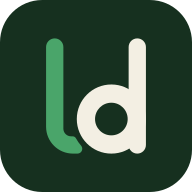
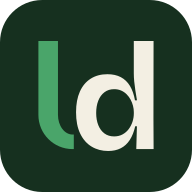
Draw the ld mark from the wordmark's letters and set it in a tile
The l and d now come from the wordmark itself: the l's foot turns at an even
thickness and ends in one straight cut, and the d's bowl is 10% lower so it
doesn't outweigh the l on its own. In the horizontal logo the mark sits in a
dark tile beside the wordmark; the logo is drawn taller (28 px on the site,
h-8 in the app) so the letters keep their size.

diff --git a/src/components/brand/logo.tsx b/src/components/brand/logo.tsx
@@ -1,16 +1,16 @@
 /**
- * The Leafdesk logo: the ld mark and the wordmark, from brand/leafdesk-logo.svg. Its colors come
- * from the --logo-* variables in globals.css, so it follows the light and dark theme.
+ * The Leafdesk logo: the ld mark in its tile and the wordmark, from brand/leafdesk-logo.svg. Its
+ * colors come from the --logo-* variables in globals.css, so it follows the light and dark theme.
  */
 export function Logo({ className }: { className?: string }) {
   return (
-    <svg xmlns="http://www.w3.org/2000/svg" viewBox="-40 -736 4880.2 776" role="img" aria-label="Leafdesk" className={className}>
-    <g transform="translate(-278.4 -928) scale(11.6)">
-      <path fill="var(--logo-leaf)" d="M24 24.5A4.5 4.5 0 0 1 33 24.5V67A4 4 0 0 0 37 71H37.8A2 2 0 0 1 39.56 72.04A21 21 0 0 0 42.22 75.85A2.5 2.5 0 0 1 40.34 80H38A14 14 0 0 1 24 66Z"/>
-      <rect fill="var(--logo-block)" x="67" y="20" width="9" height="60" rx="4.5"/>
-      <path fill="var(--logo-block)" fillRule="evenodd" d="M40 62A18 18 0 1 0 76 62A18 18 0 1 0 40 62ZM49.5 62A8.5 8.5 0 1 0 66.5 62A8.5 8.5 0 1 0 49.5 62Z"/>
+    <svg xmlns="http://www.w3.org/2000/svg" viewBox="0 -803.5 5097.9 911" role="img" aria-label="Leafdesk" className={className}>
+    <rect x="0" y="-803.5" width="911" height="911" rx="200.4" fill="var(--logo-tile)"/>
+    <g transform="translate(0 -803.5) scale(9.1)">
+      <path fill="var(--logo-leaf)" d="M20 21.36L30.19 21.36L30.19 59.85A7.6 10.22 0 0 0 37.8 70.08L38.44 70.08L38.44 77.65L37.8 77.65A17.8 17.8 0 0 1 20 59.85Z"/>
+      <path fill="var(--logo-mark)" d="M56.31 78.64Q51.54 78.64 47.76 76.38Q43.98 74.13 41.8 69.64Q39.61 65.14 39.61 58.44Q39.61 52.12 41.6 47.7Q43.58 43.28 47.26 40.97Q50.93 38.65 55.93 38.65Q60 38.65 62.91 40.18Q65.83 41.71 67.67 44.73Q69.5 47.76 70.31 52.26L71.34 52.26Q70.88 49.51 70.49 47.04Q70.1 44.56 69.9 42.37Q69.69 40.19 69.69 38.23L69.69 21.36L79.98 21.36L79.92 61.54L80 77.65L70.98 77.65L71.31 65.76L70.42 65.76Q69.46 70.03 67.59 72.9Q65.72 75.77 62.92 77.2Q60.12 78.64 56.31 78.64ZM59.43 71.05Q61.9 71.05 63.82 70.01Q65.74 68.97 67.04 67.23Q68.34 65.49 69.02 63.37Q69.7 61.25 69.7 59.11L69.7 58.38Q69.7 56.76 69.26 55.07Q68.83 53.38 68 51.85Q67.16 50.31 65.93 49.08Q64.7 47.86 63.08 47.15Q61.45 46.44 59.46 46.44Q56.5 46.44 54.4 48.04Q52.29 49.64 51.19 52.43Q50.09 55.22 50.09 58.85Q50.09 62.41 51.19 65.18Q52.29 67.94 54.39 69.5Q56.48 71.05 59.43 71.05Z"/>
     </g>
-    <g transform="translate(923.2 0)">
+    <g transform="translate(1220.9 0)">
     <g fill="var(--logo-text)" transform="scale(1 -1)">
       <path transform="translate(0 0)" d="M49.90412139892578 0.0V695.8099365234375H175.90626525878906V0.0H49.90412139892578Z"/>
       <path transform="translate(226 0)" d="M290.1429138183594 -13.571457862854004Q223.38063049316406 -13.571457862854004 174.76144409179688 6.095271587371826Q126.14227294921875 25.762001037597656 94.23749542236328 61.52396774291992Q62.33272171020508 97.28593444824219 46.7613410949707 145.85736083984375Q31.18996238708496 194.42877197265625 31.18996238708496 252.4762420654297Q31.18996238708496 310.90478515625 46.61852264404297 362.3096008300781Q62.04708480834961 413.71441650390625 93.02330017089844 452.7144775390625Q123.99951171875 491.71453857421875 170.9996337890625 513.857421875Q217.99974060058594 536.0003662109375 280.952392578125 536.0003662109375Q341.0480651855469 536.0003662109375 386.333984375 515.500244140625Q431.619873046875 495.00006103515625 460.78656005859375 456.73797607421875Q489.9532470703125 418.4758605957031 501.73883056640625 365.2376403808594Q513.5244140625 311.9994201660156 506.6671142578125 246.28515625L110.71514129638672 240.90419006347656V315.3335266113281L417.71295166015625 320.0002136230469L390.42718505859375 277.4284362792969Q394.99871826171875 327.6662902832031 383.26080322265625 362.4993896484375Q371.5229187011719 397.3324890136719 345.88037109375 415.5942687988281Q320.23779296875 433.8560485839844 281.23809814453125 433.8560485839844Q238.9051055908203 433.8560485839844 210.33401489257812 412.11810302734375Q181.762939453125 390.38018798828125 167.73936462402344 350.71380615234375Q153.71578979492188 311.04742431640625 153.71578979492188 257.095458984375Q153.71578979492188 169.8577117919922 189.16778564453125 126.54856872558594Q224.61976623535156 83.23941802978516 291.5714416503906 83.23941802978516Q322.57110595703125 83.23941802978516 343.4755859375 91.92977142333984Q364.3800964355469 100.62012481689453 377.3085021972656 115.33424377441406Q390.2369079589844 130.04837036132812 396.1653747558594 148.54823303222656Q402.0938415527344 167.048095703125 402.5699768066406 186.4290313720703L517.5718994140625 174.048095703125Q516.1911010742188 136.66734313964844 502.54840087890625 102.97682189941406Q488.9057312011719 69.28629302978516 461.358154296875 43.143280029296875Q433.8105773925781 17.000267028808594 391.4056091308594 1.714404582977295Q349.0006408691406 -13.571457862854004 290.1429138183594 -13.571457862854004Z"/>

diff --git a/site/index.html b/site/index.html
@@ -102,7 +102,7 @@
     border-bottom: 1px solid var(--border);
   }
   header.top .wrap { display: flex; align-items: center; gap: 24px; height: 60px; }
-  .logo img { height: 24px; width: auto; }
+  .logo img { height: 28px; width: auto; }
   nav.links { display: flex; gap: 20px; margin-left: auto; font-size: 15px; }
   nav.links a { text-decoration: none; color: var(--fg-muted); }
   nav.links a:hover { color: var(--fg); }
@@ -216,7 +216,7 @@
     <a class="logo" href="./" aria-label="Leafdesk home">
       <picture>
         <source media="(prefers-color-scheme: dark)" srcset="brand/leafdesk-logo-dark.svg">
-        <img src="brand/leafdesk-logo.svg" alt="Leafdesk" width="151" height="24">
+        <img src="brand/leafdesk-logo.svg" alt="Leafdesk" width="157" height="28">
       </picture>
     </a>
     <nav class="links" aria-label="Main">

diff --git a/src/app/globals.css b/src/app/globals.css
@@ -34,8 +34,9 @@
   --danger: #d03b3b;
   --ring: rgba(47, 125, 79, 0.35);
   /* The logo's colors (components/brand/logo.tsx). */
+  --logo-tile: #16301f;
   --logo-leaf: #4aa56a;
-  --logo-block: #16301f;
+  --logo-mark: #f3efe3;
   --logo-text: #13201a;
   --scrollbar: rgba(31, 32, 35, 0.16);
   --scrollbar-hover: rgba(31, 32, 35, 0.32);
@@ -63,8 +64,9 @@
     --accent-fg: #0d1117;
     --danger: #ef6b6b;
     --ring: rgba(108, 195, 138, 0.4);
+    --logo-tile: #2b5e40;
     --logo-leaf: #9ed8ab;
-    --logo-block: #f3efe3;
+    --logo-mark: #f3efe3;
     --logo-text: #f3efe3;
     --scrollbar: rgba(232, 232, 234, 0.16);
     --scrollbar-hover: rgba(232, 232, 234, 0.3);

diff --git a/src/app/offline/page.tsx b/src/app/offline/page.tsx
@@ -18,7 +18,7 @@ export default async function OfflinePage() {
     <main className="flex min-h-full items-center justify-center bg-bg-subtle px-4 py-16">
       <div className="w-full max-w-md">
         <div className="mb-8 flex justify-center">
-          <Logo className="h-7 w-auto" />
+          <Logo className="h-8 w-auto" />
         </div>
         <div className="rounded-xl border border-border bg-bg p-6 shadow-sm">
           <h1 className="text-lg font-semibold">{t("heading")}</h1>

diff --git a/src/app/(auth)/layout.tsx b/src/app/(auth)/layout.tsx
@@ -5,7 +5,7 @@ export default function AuthLayout({ children }: { children: React.ReactNode }) 
     <main className="flex min-h-full items-center justify-center bg-bg-subtle px-4 py-16">
       <div className="w-full max-w-sm">
         <div className="mb-8 flex justify-center">
-          <Logo className="h-7 w-auto" />
+          <Logo className="h-8 w-auto" />
         </div>
         <div className="rounded-xl border border-border bg-bg p-6 shadow-sm">{children}</div>
       </div>

diff --git a/src/app/two-step/[workspaceId]/page.tsx b/src/app/two-step/[workspaceId]/page.tsx
@@ -39,7 +39,7 @@ export default async function TwoStepPage({ params }: { params: Promise<{ worksp
     <main className="flex min-h-full items-center justify-center bg-bg-subtle px-4 py-16">
       <div className="w-full max-w-md">
         <div className="mb-8 flex justify-center">
-          <Logo className="h-7 w-auto" />
+          <Logo className="h-8 w-auto" />
         </div>
         <div className="rounded-xl border border-border bg-bg p-6 shadow-sm">
           <TwoStepGate

diff --git a/src/app/sso-required/[workspaceId]/page.tsx b/src/app/sso-required/[workspaceId]/page.tsx
@@ -38,7 +38,7 @@ export default async function SsoRequiredPage({ params }: { params: Promise<{ wo
     <main className="flex min-h-full items-center justify-center bg-bg-subtle px-4 py-16">
       <div className="w-full max-w-md">
         <div className="mb-8 flex justify-center">
-          <Logo className="h-7 w-auto" />
+          <Logo className="h-8 w-auto" />
         </div>
         <div className="rounded-xl border border-border bg-bg p-6 shadow-sm">
           <SsoGate

diff --git a/src/app/oauth/consent/page.tsx b/src/app/oauth/consent/page.tsx
@@ -39,7 +39,7 @@ function Shell({ children }: { children: React.ReactNode }) {
     <main className="flex min-h-full items-center justify-center bg-bg-subtle px-4 py-16">
       <div className="w-full max-w-md">
         <div className="mb-8 flex justify-center">
-          <Logo className="h-7 w-auto" />
+          <Logo className="h-8 w-auto" />
         </div>
         <div className="rounded-xl border border-border bg-bg p-6 shadow-sm">{children}</div>
       </div>

diff --git a/CHANGELOG.md b/CHANGELOG.md
@@ -287,9 +287,11 @@
 
 ### Changed
 
-- **New mark.** A green l whose foot curves toward a dark d, set apart from the d's bowl by a gap
-  that follows its curve, replaces the block-leaf mark in the logo, the app and touch icons, the
-  favicon and the website's preview image. The wordmark and colors stay the same.
+- **New mark.** An ld drawn from the wordmark's own letters, a green l whose foot curves evenly
+  toward the d, replaces the block-leaf mark in the app and touch icons, the favicon and the
+  website's preview image. In the logo the mark sits in a dark tile beside the wordmark, so the
+  logo is drawn a little taller to keep the letters their size. The wordmark and colors stay the
+  same.
 - **Dependency checks.** A weekly workflow (`.github/workflows/dependencies.yml`, also on changes to
   the lockfile) runs `pnpm audit --prod` and lists outdated direct dependencies. Advisories that
   can't reach a running server are reviewed in `pnpm-workspace.yaml` (`auditConfig.ignoreGhsas`,
